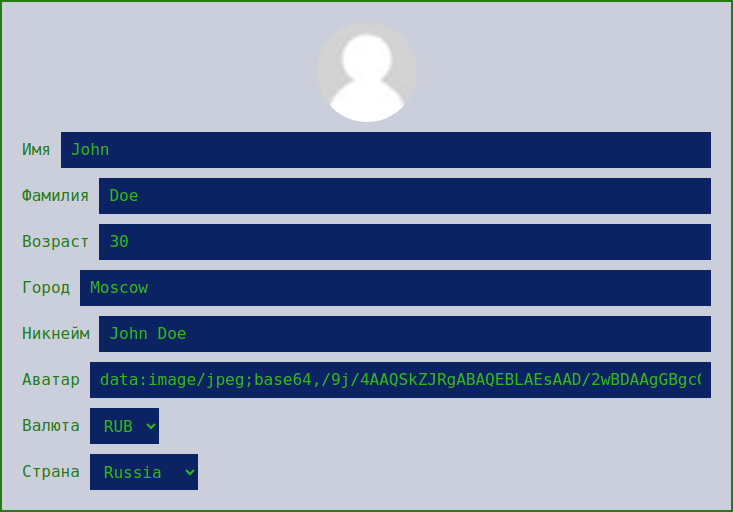
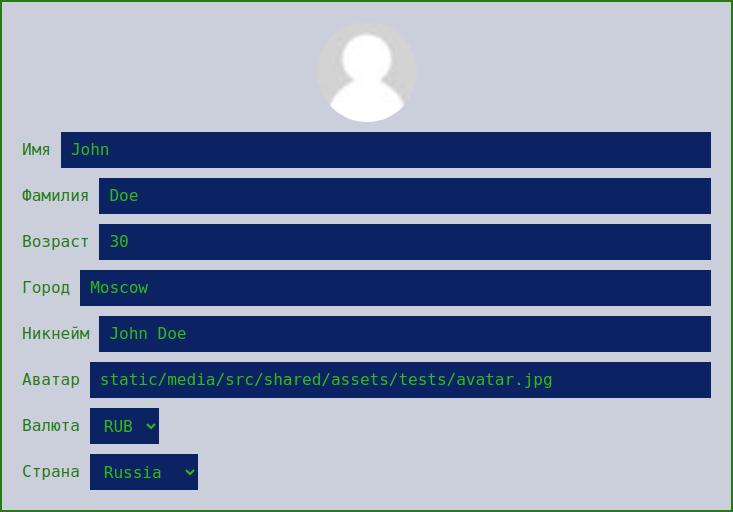
48

Changed region(s): [[0.1201, 0.7188, 0.9604, 0.7812]]

diff --git a/src/widgets/Sidebar/ui/Sidebar/Sidebar.tsx b/src/widgets/Sidebar/ui/Sidebar/Sidebar.tsx
@@ -1,6 +1,8 @@
+import { userSelectors } from "@/entities/User";
 import { classNames } from "@/shared/lib";
+import { useAppSelector } from "@/shared/model";
 import { Button, LangSwitcher, ThemeSwitcher } from "@/shared/ui";
-import { memo, useState } from "react";
+import { memo, useCallback, useMemo, useState } from "react";
 import { sidebarItemsList } from "../../constants/items";
 import { SidebarItem } from "../SidebarItem/SidebarItem";
 import styles from "./Sidebar.module.scss";
@@ -15,10 +17,19 @@ export const Sidebar = memo(function Sidebar({
   defaultCollapsed = false,
 }: SidebarProps) {
   const [collapsed, setCollapsed] = useState(defaultCollapsed);
+  const user = useAppSelector(userSelectors.getUserData);
 
-  const toggleCollapsed = () => {
+  const sidebarItems = useMemo(() => {
+    return sidebarItemsList
+      .filter((item) => !item.authOnly || user)
+      .map((item) => (
+        <SidebarItem key={item.path} item={item} collapsed={collapsed} />
+      ));
+  }, [collapsed, user]);
+
+  const toggleCollapsed = useCallback(() => {
     setCollapsed((prev) => !prev);
-  };
+  }, []);
 
   return (
     <div
@@ -27,11 +38,7 @@ export const Sidebar = memo(function Sidebar({
         className,
       ])}
     >
-      <div className={styles.content}>
-        {sidebarItemsList.map((item) => (
-          <SidebarItem key={item.path} item={item} collapsed={collapsed} />
-        ))}
-      </div>
+      <div className={styles.content}>{sidebarItems}</div>
       <div className={styles.switchers}>
         <Button
           data-testid="Sidebar.Toggle"

diff --git a/src/shared/config/routerConfig/routerConfig.tsx b/src/shared/config/routerConfig/routerConfig.tsx
@@ -1,4 +1,6 @@
 import { AboutPageLazy } from "@/pages/AboutPage";
+import { ArticleDetailsPageLazy } from "@/pages/ArticleDetailsPage";
+import { ArticlesPageLazy } from "@/pages/ArticlesPage";
 import { MainPageLazy } from "@/pages/MainPage";
 import { NotFoundPageLazy } from "@/pages/NotFoundPage";
 import { ProfilePageLazy } from "@/pages/ProfilePage";
@@ -14,6 +16,8 @@ export enum AppRoutes {
   MAIN = "main",
   ABOUT = "about",
   PROFILE = "profile",
+  ARTICLES = "articles",
+  ARTICLE_DETAILS = "article_details",
   NOT_FOUND = "not_found",
 }
 
@@ -21,6 +25,8 @@ export const RoutePath: Record<AppRoutes, string> = {
   [AppRoutes.MAIN]: "/",
   [AppRoutes.ABOUT]: "/about",
   [AppRoutes.PROFILE]: "/profile",
+  [AppRoutes.ARTICLES]: "/articles",
+  [AppRoutes.ARTICLE_DETAILS]: "/articles/",
   [AppRoutes.NOT_FOUND]: "*",
 };
 
@@ -28,5 +34,11 @@ export const routeConfig: RouteItem[] = [
   { path: RoutePath.main, element: <MainPageLazy /> },
   { path: RoutePath.about, element: <AboutPageLazy /> },
   { path: RoutePath.profile, element: <ProfilePageLazy />, authOnly: true },
+  { path: RoutePath.articles, element: <ArticlesPageLazy />, authOnly: true },
+  {
+    path: `${RoutePath.article_details}:id`,
+    element: <ArticleDetailsPageLazy />,
+    authOnly: true,
+  },
   { path: RoutePath.not_found, element: <NotFoundPageLazy /> },
 ];

diff --git a/src/pages/ProfilePage/ui/ProfilePage/ProfilePage.stories.tsx b/src/pages/ProfilePage/ui/ProfilePage/ProfilePage.stories.tsx
@@ -1,5 +1,6 @@
 import { Country } from "@/entities/Country";
 import { Currency } from "@/entities/Currency";
+import avatar from "@/shared/assets/tests/avatar.jpg";
 import type { Meta, StoryObj } from "@storybook/react";
 import { withStoreProvider } from "../../../../shared/lib/decorators";
 import { ProfilePage } from "./ProfilePage";
@@ -13,8 +14,7 @@ const profile = {
     country: Country.Russia,
     first: "John",
     lastname: "Doe",
-    avatar:
[1 lines of base64/hex data omitted]
+    avatar,
     city: "Moscow",
     currency: Currency.RUB,
   },

diff --git a/src/entities/Profile/ui/ProfileCard/ProfileCard.stories.tsx b/src/entities/Profile/ui/ProfileCard/ProfileCard.stories.tsx
@@ -1,3 +1,4 @@
+import avatar from "@/shared/assets/tests/avatar.jpg";
 import { Country, Currency } from "@/shared/constants";
 import { withStoreProvider } from "@/shared/lib/decorators";
 import type { Meta, StoryObj } from "@storybook/react";
@@ -12,8 +13,7 @@ const profile = {
     country: Country.Russia,
     first: "John",
     lastname: "Doe",
-    avatar:
[1 lines of base64/hex data omitted]
+    avatar,
     city: "Moscow",
     currency: Currency.RUB,
   },

diff --git a/src/shared/ui/Avatar/Avatar.stories.tsx b/src/shared/ui/Avatar/Avatar.stories.tsx
@@ -1,8 +1,6 @@
+import avatar from "@/shared/assets/tests/avatar.jpg";
 import type { Meta, StoryObj } from "@storybook/react";
 import { Avatar } from "./Avatar";
-
-const src =
[1 lines of base64/hex data omitted]
 
 const meta = {
   title: "shared/Avatar",
@@ -13,5 +11,5 @@ export default meta;
 type Story = StoryObj<typeof meta>;
 
 export const Default: Story = {
-  args: { src },
+  args: { src: avatar },
 };

diff --git a/src/widgets/Sidebar/ui/Sidebar/Sidebar.stories.tsx b/src/widgets/Sidebar/ui/Sidebar/Sidebar.stories.tsx
@@ -1,17 +1,37 @@
-import { withFullHeight, withRouter, withTheme } from "@/shared/lib/decorators";
+import { UserState } from "@/entities/User";
+import {
+  withFullHeight,
+  withRouter,
+  withStoreProvider,
+  withTheme,
+} from "@/shared/lib/decorators";
 import type { Meta, StoryObj } from "@storybook/react";
 import { Sidebar } from "./Sidebar";
 
 const meta = {
   title: "widgets/Sidebar/Sidebar",
   component: Sidebar,
-  decorators: [withTheme, withRouter, withFullHeight],
+  decorators: [
+    withTheme,
+    withRouter,
+    withFullHeight,
+    withStoreProvider({ user: { user: null } as UserState }),
+  ],
 } satisfies Meta<typeof Sidebar>;
 
 export default meta;
 type Story = StoryObj<typeof meta>;
 
 export const Default: Story = {
+  args: { defaultCollapsed: false },
+};
+
+export const User: Story = {
+  decorators: [
+    withStoreProvider({
+      user: { user: { id: "1", username: "user" } } as UserState,
+    }),
+  ],
   args: { defaultCollapsed: false },
 };
 

diff --git a/src/widgets/Sidebar/constants/items.ts b/src/widgets/Sidebar/constants/items.ts
@@ -1,4 +1,5 @@
 import AboutIcon from "@/shared/assets/icons/about.svg";
+import ArticleIcon from "@/shared/assets/icons/article.svg";
 import MainIcon from "@/shared/assets/icons/main.svg";
 import ProfileIcon from "@/shared/assets/icons/profile.svg";
 import { RoutePath } from "@/shared/config";
@@ -19,5 +20,12 @@ export const sidebarItemsList: SidebarItemType[] = [
     path: RoutePath.profile,
     text: "Профиль",
     Icon: ProfileIcon,
+    authOnly: true,
+  },
+  {
+    path: RoutePath.articles,
+    text: "Статьи",
+    Icon: ArticleIcon,
+    authOnly: true,
   },
 ];

diff --git a/config/build/config.ts b/config/build/config.ts
@@ -6,7 +6,7 @@ import { getResolvers } from "./resolvers";
 import { BuildOptions } from "./types/config";
 
 export const getConfig = (options: BuildOptions): Configuration => {
-  const { mode, paths, isDev } = options;
+  const { mode, paths, isDev, publicPath } = options;
 
   return {
     mode,
@@ -14,6 +14,7 @@ export const getConfig = (options: BuildOptions): Configuration => {
     module: getModules(options),
     resolve: getResolvers(options),
     output: {
+      publicPath,
       filename: "[name].[contenthash].js",
       path: paths.output,
       clean: true,

diff --git a/src/app/types/global.d.ts b/src/app/types/global.d.ts
@@ -3,10 +3,25 @@ declare module "*.module.scss" {
   export default classes;
 }
 
-declare module "*.png";
-declare module "*.jpg";
-declare module "*.jpeg";
-declare module "*.gif";
+declare module "*.png" {
+  const url: string;
+  export default url;
+}
+
+declare module "*.jpg" {
+  const url: string;
+  export default url;
+}
+
+declare module "*.jpeg" {
+  const url: string;
+  export default url;
+}
+
+declare module "*.gif" {
+  const url: string;
+  export default url;
+}
 
 declare module "*.svg" {
   import { FC, SVGProps } from "react";

diff --git a/webpack.config.ts b/webpack.config.ts
@@ -6,6 +6,7 @@ export default (env: BuildEnv) => {
   const mode = env.mode ?? "development";
   const port = env.port ?? 3000;
   const apiUrl = env.apiUrl ?? "http://localhost:8000";
+  const publicPath = env.publicPath ?? "/";
 
   const project = "frontend";
   const isDev = mode === "development";
@@ -17,5 +18,5 @@ export default (env: BuildEnv) => {
     src: resolve(__dirname, "src"),
   };
 
-  return getConfig({ mode, paths, isDev, port, apiUrl, project });
+  return getConfig({ mode, paths, isDev, port, apiUrl, project, publicPath });
 };

diff --git a/src/pages/ArticleDetailsPage/ui/ArticleDetailsPage/ArticleDetailsPage.stories.tsx b/src/pages/ArticleDetailsPage/ui/ArticleDetailsPage/ArticleDetailsPage.stories.tsx
@@ -1,0 +1,12 @@
+import type { Meta, StoryObj } from "@storybook/react";
+import { ArticleDetailsPage } from "./ArticleDetailsPage";
+
+const meta = {
+  title: "pages/ArticleDetailsPage/ArticleDetailsPage",
+  component: ArticleDetailsPage,
+} satisfies Meta<typeof ArticleDetailsPage>;
+
+export default meta;
+type Story = StoryObj<typeof meta>;
+
+export const Default: Story = {};

diff --git a/src/pages/ArticlesPage/ui/ArticlesPage/ArticlesPage.stories.tsx b/src/pages/ArticlesPage/ui/ArticlesPage/ArticlesPage.stories.tsx
@@ -1,0 +1,12 @@
+import type { Meta, StoryObj } from "@storybook/react";
+import { ArticlesPage } from "./ArticlesPage";
+
+const meta = {
+  title: "pages/ArticlesPage/ArticlesPage",
+  component: ArticlesPage,
+} satisfies Meta<typeof ArticlesPage>;
+
+export default meta;
+type Story = StoryObj<typeof meta>;
+
+export const Default: Story = {};
